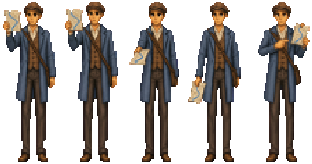
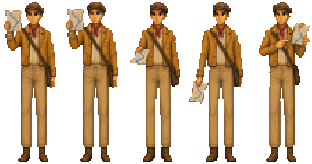
The map seller in his own clothes, not Thad's (cast-unify 86, errata 178 D)
Tyler: "The map seller is dressed exactly like Thad. Change his clothes, the
rest look good." An edit of his sheet: a mustard work jacket, striped shirt,
red neckerchief, tan trousers; cap, satchel, map, face and poses kept.

Claude-Session: https://claude.ai/code/session_01FXbCupzwLJAEr7fqqWYP8A

diff --git a/docs/00-errata.md b/docs/00-errata.md
@@ -4808,7 +4808,7 @@ Each sheet is painted over the in-game Thad (`art/actors/thad-stand-front/stand-
 - the boy's template is a child built from Thad (a smaller body under a head ~0.88 of his);
 - the fiddler's face is Charlie's own, from his sheet (errata 123), with no photograph.
 
-**B · Seven operations, cast-unify 79–85** (`reference/cast-unify-50.txt` to `-56.txt`). The ledger was checked before each. The boundary men share one sheet, as before. No correction was needed, so 85 of 90 are spent.
+**B · Seven operations, cast-unify 79–85** (`reference/cast-unify-50.txt` to `-56.txt`). The ledger was checked before each. The boundary men share one sheet, as before. No correction was needed for build, so 85 of 90 were spent; then one more for the map seller's clothes (D), so 86.
 
 `lineup-redraws.py cut` cuts each at the drawn height of the frame it replaces (`cast-unify-cut.py --grid 1`) and keeps every frame index:
 - frame 1 is a breath derived from the rest pose;
@@ -4821,7 +4821,7 @@ The records are written first, then each sheet is snapped to one level (errata 1
 
   | Figure | Before | After |
   |---|---|---|
-  | Map seller | 1.88 | 1.09 |
+  | Map seller | 1.88 | 1.15 (after D) |
   | Letter-writer | 1.39 | 1.09 |
   | Pie woman | 1.27 | 0.85 |
   | Bell-ringer | 1.20 | 1.05 |
@@ -4837,3 +4837,7 @@ The records are written first, then each sheet is snapped to one level (errata 1
 - the message boy's look-back pose is now drawn from behind;
 - the faces are a little more front-on than the old three-quarter view;
 - the fiddler's face should be checked against Charlie.
+
+**D · The map seller's clothes (Tyler, shown the lineup): "The map seller is dressed exactly like Thad. Change his clothes, the rest look good."** Doc 07 does not describe his clothes, so they were chosen to share nothing with Thad's: a short mustard-brown work jacket, a cream shirt with thin brown stripes, a red neckerchief and tan trousers. His flat cap, satchel, map, face and poses are kept.
+
+Cast-unify 86 (`reference/cast-unify-57.txt`) is an edit of his own sheet (`derivedFrom` 79) that changes only the clothes. It is cut with `lineup-redraws.py cut map-seller --batch 57`. His shoulders measure 1.15× Thad's, and by ruler his head is Thad's. 86 of 90 are spent.
